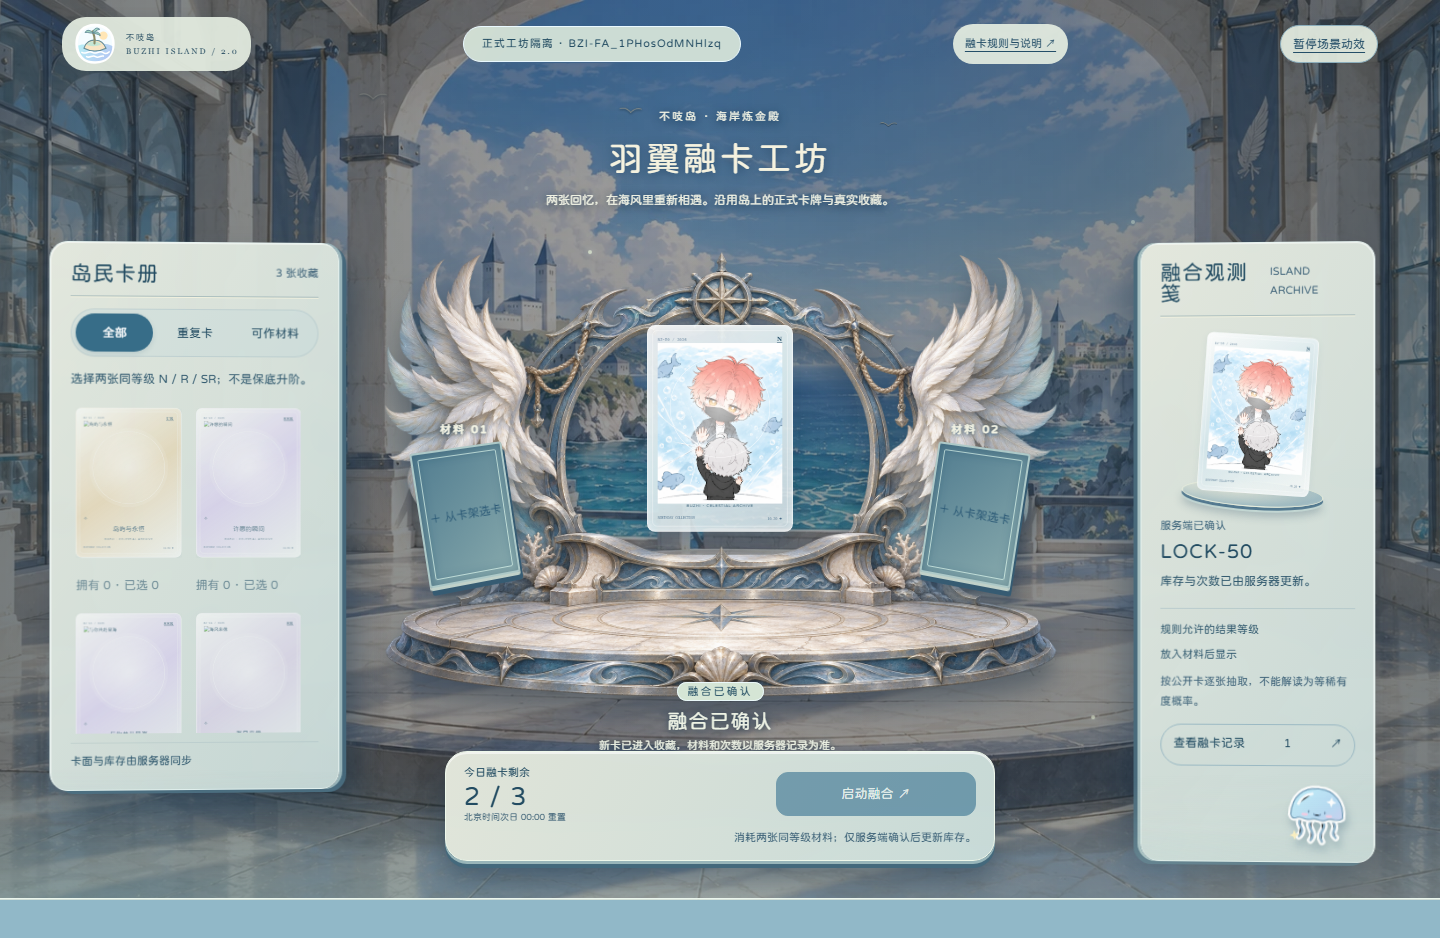
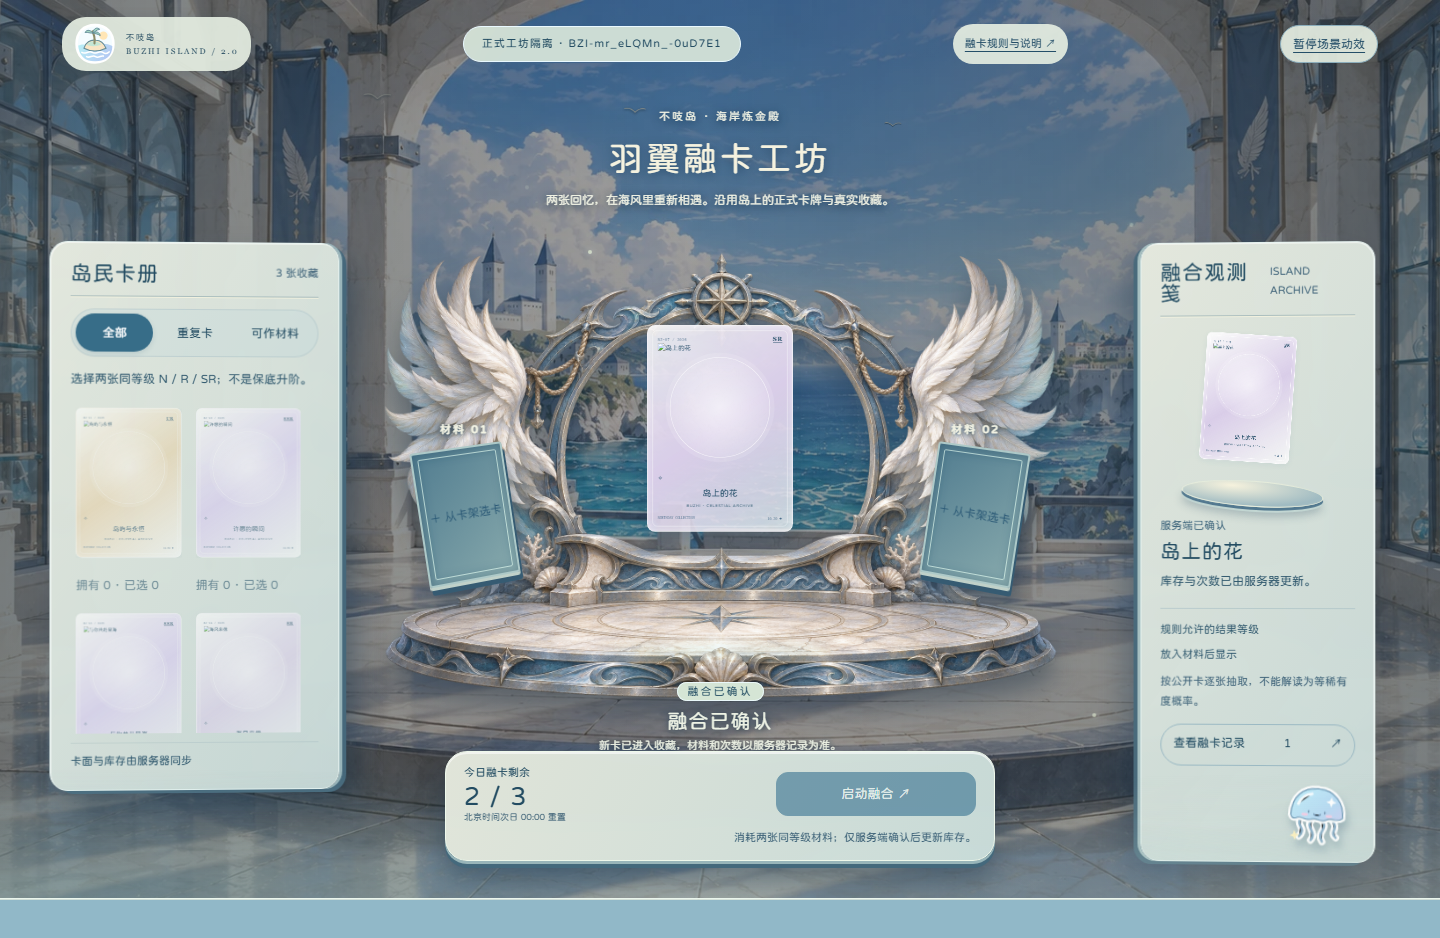
style: replace sea ripples with painted altar motion

diff --git a/ui-preview/workshop-visual-repair.js b/ui-preview/workshop-visual-repair.js
@@ -1,7 +1,7 @@
 /* Decorative feedback only. No network, card mapping, inventory or settlement. */
 (()=>{'use strict';const brand=document.querySelector('.brand');if(brand&&!brand.querySelector('img')){const wordmark=document.createElement('span');wordmark.className='brand-wordmark';wordmark.append(...brand.childNodes);const logo=document.createElement('img');logo.className='island-logo';logo.src='/assets/island-mark.svg';logo.alt='';brand.append(logo,wordmark)}
 const button=document.createElement('button');button.type='button';button.className='motion-control';button.textContent='暂停场景动效';button.setAttribute('aria-pressed','false');button.onclick=()=>{const paused=document.documentElement.classList.toggle('effects-paused');button.setAttribute('aria-pressed',String(paused));button.textContent=paused?'继续场景动效':'暂停场景动效'};document.querySelector('header').append(button);
-const device=document.createElement('img');device.className='ritual-device';device.src='/assets/wing-ritual-device-painted.png';device.alt='';device.setAttribute('aria-hidden','true');document.querySelector('.machine').prepend(device);
+const device=document.createElement('img');device.className='ritual-device';device.src='/assets/wing-ritual-device-painted.png';device.alt='';device.setAttribute('aria-hidden','true');const frame=document.createElement('div');frame.className='altar-motion-frame';frame.setAttribute('aria-hidden','true');const sheen=document.createElement('span');sheen.className='altar-sheen';frame.append(device,sheen);document.querySelector('.machine').prepend(frame);
[1 lines of base64/hex data omitted]
 const layer=document.createElement('div');layer.className='scene-motes';layer.setAttribute('aria-hidden','true');for(let i=0;i<14;i++){const p=document.createElement('i');p.style.setProperty('--x',(i*37%100)+'%');p.style.setProperty('--y',(i*23%100)+'%');p.style.setProperty('--delay',(-i*.43)+'s');layer.append(p)}document.body.prepend(layer);document.querySelectorAll('.fusion-particles i').forEach((p,i)=>p.style.setProperty('--delay',(-i*.073)+'s'));
 })();

diff --git a/ui-preview/workshop-visual-repair.css b/ui-preview/workshop-visual-repair.css
@@ -35,3 +35,10 @@ html.effects-paused *,html.effects-paused *::before,html.effects-paused *::after
 
 /* Painted prop replaces the vector silhouette; original SVG remains available. */
 .ritual-device{height:450px;object-fit:contain;transform:none;filter:drop-shadow(0 17px 13px #10253d66)}.machine:after{opacity:.3}.device-halo,.machine>.wing-layer{display:none}
+
+/* Altar-only motion: retain the painted texture; the sea remains still. */
+.altar-motion-frame{position:absolute;inset:0;height:450px;z-index:1;pointer-events:none;transform-origin:50% 88%;animation:altar-hover 6s ease-in-out infinite}.altar-motion-frame .ritual-device{z-index:0}.altar-sheen{position:absolute;inset:0;overflow:hidden;mask:url('/assets/wing-ritual-device-painted.png') center/contain no-repeat;-webkit-mask:url('/assets/wing-ritual-device-painted.png') center/contain no-repeat}.altar-sheen:before{content:'';position:absolute;left:-65%;top:-15%;height:130%;width:65%;background:linear-gradient(110deg,transparent 20%,#c9f3ec16 39%,#eff9e866 50%,#d2ede725 59%,transparent 80%);animation:altar-reflection 8s ease-in-out infinite;animation-delay:-2s;mix-blend-mode:screen}.altar-motion-frame:after{content:'';position:absolute;left:35%;right:35%;top:88%;height:10px;border-radius:50%;background:#a2e1d9;filter:blur(7px);opacity:.14;animation:altar-core 4s ease-in-out infinite}
+body[data-state=fusing] .altar-motion-frame{animation:altar-resonance 1.2s ease-in-out infinite}body[data-state=fusing] .altar-sheen:before{animation-duration:1.4s;animation-delay:0s}body[data-state=fusing] .altar-motion-frame:after{opacity:.5;animation-duration:.8s}body[data-state=success] .altar-sheen:before{animation:altar-reflection 1.4s ease-out 1}
+@keyframes altar-hover{0%,100%{transform:translate3d(0,2px,0)}50%{transform:translate3d(0,-6px,0)}}@keyframes altar-reflection{0%,18%{transform:translate3d(0,0,0);opacity:0}28%{opacity:.8}62%{transform:translate3d(270%,0,0);opacity:.8}72%,100%{transform:translate3d(300%,0,0);opacity:0}}@keyframes altar-core{50%{opacity:.32;transform:scaleX(1.15)}}@keyframes altar-resonance{0%,100%{transform:translate3d(0,-3px,0) scale(1)}50%{transform:translate3d(0,-7px,0) scale(1.012)}}
+.effects-paused .altar-motion-frame,.effects-paused .altar-sheen:before,.effects-paused .altar-motion-frame:after,.motion-suspended .altar-motion-frame,.motion-suspended .altar-sheen:before,.motion-suspended .altar-motion-frame:after{animation-play-state:paused!important}
+@media(prefers-reduced-motion:reduce){.altar-motion-frame,.altar-sheen:before,.altar-motion-frame:after{animation:none!important}.altar-sheen{display:none}}

diff --git a/ui-preview/workshop-sea-life.js b/ui-preview/workshop-sea-life.js
@@ -1,8 +1,5 @@
 /* Ambient scene only; no card or account interactions. */
 (()=>{'use strict';const scene=document.querySelector('.atelier-world');if(!scene)return;
-const water=document.createElement('div');water.className='living-sea';water.setAttribute('aria-hidden','true');
-water.innerHTML='<svg viewBox="0 0 800 240" preserveAspectRatio="none" fill="none"><g class="sea-current current-back" stroke="#c9e6d4" stroke-width="1.2"><path d="M80 31q38-8 76 0t76 0m105 2q23-6 46 0t46 0m130 8q35-8 70 0M12 66q40-9 80 0t80 0m85-8q24-5 48 0m139 12q35-9 70 0t70 0m70-6q23-5 46 0M71 100q30-6 60 0m85 4q40-9 80 0t80 0m140-7q30-8 60 0t60 0"/></g><g class="sea-current current-near" stroke="#c5eadb" stroke-width="2"><path d="M-50 143q50-11 100 0t100 0m80-10q32-7 64 0m95 15q50-12 100 0t100 0m60-11q36-8 72 0M15 189q45-11 90 0t90 0m120 9q36-9 72 0m72-14q50-12 100 0t100 0M90 230q45-8 90 0m124-9q30-7 60 0t60 0m120 10q35-8 70 0"/></g></svg>';
-scene.append(water);
 const sky=document.createElement('div');sky.className='living-sky';sky.setAttribute('aria-hidden','true');
 for(let i=0;i<3;i++){const bird=document.createElement('span');bird.className='ocean-gull';bird.style.setProperty('--flight-delay',(-i*9)+'s');bird.style.setProperty('--flight-y',(9+i*3)+'%');bird.style.setProperty('--bird-scale',String(1-i*.18));bird.innerHTML='<svg viewBox="0 0 48 24" fill="none"><path class="gull-wing gull-left" d="M24 15Q14 4 3 8"/><path class="gull-wing gull-right" d="M24 15Q34 4 45 8"/></svg>';sky.append(bird)}scene.append(sky);
 })();

diff --git a/docs/admin-fusion/VISUAL-REPAIR-20261105.md b/docs/admin-fusion/VISUAL-REPAIR-20261105.md
@@ -36,3 +36,7 @@ workshop-live.js及official-card.js/css未改，完整文件哈希记录visual-r
 
 ### 海面与飞鸟
 引入 workshop-sea-life.css/js，首页工坊场景增加局部波光与三只小海鸟；纯装饰层 aria-hidden、pointer-events:none，不调用 API。暂停和 reduced-motion 纳入现有浏览器测试。固定蒙版坐标针对当前背景，不保证未来更换或裁切背景后仍与海域精确对齐。未部署。
+
+
+### 最终方向：静态海面与装置本体动效
+用户否决雨滴波纹。正式候选未引入水面 WebGL 试验文件；停止独立试用服务，并移除 sea-life 中旧 CSS 水层创建，只留三只飞鸟。最新装饰脚本将绘制 PNG 包装为 altar-motion-frame，增加轻悬浮、alpha 蒙版反光及底部聚光，支持融合中、成功、暂停、隐藏页面及减少动效状态。原 valid/fuse 业务未改。
